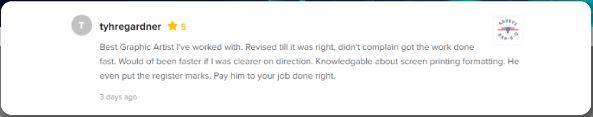
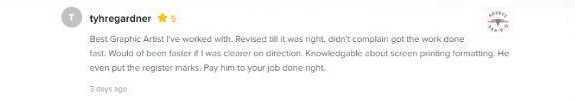
Seventh commit

diff --git a/quote.html b/quote.html
@@ -1,22 +1,22 @@
 <!doctype html>
 <html lang="en">
     <head>
-    <!-- Required meta tags -->
-    <meta charset="utf-8">
-    <meta name="viewport" content="width=device-width, initial-scale=1, shrink-to-fit=no">
+        <!-- Required meta tags -->
+        <meta charset="utf-8">
+        <meta name="viewport" content="width=device-width, initial-scale=1, shrink-to-fit=no">
 
-    <!--Animate CSS-->
-    <link rel="stylesheet" href="https://cdnjs.cloudflare.com/ajax/libs/animate.css/4.0.0/animate.min.css"/>
+        <!--Animate CSS-->
+        <link rel="stylesheet" href="https://cdnjs.cloudflare.com/ajax/libs/animate.css/4.0.0/animate.min.css"/>
 
-    <!-- Bootstrap CSS -->
-    <link rel="stylesheet" href="css/bootstrap.min.css">
+        <!-- Bootstrap CSS -->
+        <link rel="stylesheet" href="css/bootstrap.min.css">
 
-    <!-- App Style CSS -->
-    <link rel="stylesheet" href="sass/style.css">
+        <!-- App Style CSS -->
+        <link rel="stylesheet" href="sass/style.css">
 
-    <link rel="shortcut icon" href="img/favicon.jpg" type="image/x-icon">
-    <title>Designplus365</title>
-</head>
+        <link rel="shortcut icon" href="img/favicon.png" type="image/x-icon">
+        <title>Designplus365</title>
+    </head>
     <body data-spy="scroll" data-target="#mainNavbar">
     <header id="home">
         <nav class="navbar navbar-expand-lg fixed-top">
@@ -156,7 +156,7 @@
         <section id="contactPageSectionTwo" class="contact-page-section-two">
             <div class="container">
                 <h1 class="text-center mb-5">Connect Me On Social Media</h1>
-                <div class="d-flex justify-content-center social-medias">
+                <div class="d-flex flex-wrap justify-content-center social-medias">
                     <div class="text-center d-flex flex-column justify-content-center single-media wow animate__animated animate__fadeInUp" data-wow-delay="0.1s">
                         <a href="https://www.facebook.com/designplus365" target="_blank">
                             <i class="icofont-facebook"></i>

diff --git a/sass/style.scss b/sass/style.scss
@@ -166,14 +166,30 @@ header {
           &.quote {
             color: $white;
             background-color: #25a7e0;
+            border: 2px solid #25a7e0;
             border-radius: $default-button-radius;
+            transition: color .2s $transition-timing-function,
+            background-color .2s $transition-timing-function,
+            border-color .2s $transition-timing-function;
+            &:hover {
+              color: #25a7e0;
+              background-color: transparent;
+            }
           }
 
           &.quote-with-fiverr {
             color: $white;
             margin-left: 1.5rem;
             background-color: #87c540;
+            border: 2px solid #87c540;
             border-radius: $default-button-radius;
+            transition: color .2s $transition-timing-function,
+            background-color .2s $transition-timing-function,
+            border-color .2s $transition-timing-function;
+            &:hover {
+              color: #87c540;
+              background-color: transparent;
+            }
           }
 
           &.active {
@@ -286,16 +302,19 @@ Portfolio Style Start Here
             .carousel-item {
               img {
                 border-radius: 0.25rem;
-                border: 5px solid $white;
+                border: 7px solid $white;
               }
 
               .carousel-caption {
                 bottom: -50px;
                 text-align: left;
-                border-radius: 0.5rem;
+                border-radius: 1rem;
                 color: $secondary-color;
                 background-color: $white;
-                box-shadow: $default-box-shadow;
+                box-shadow: 5px 6px 10px 0px #797070;
+                img {
+                  border-radius: 1rem;
+                }
               }
             }
           }

diff --git a/sass/style.css b/sass/style.css
@@ -135,13 +135,25 @@ header .navbar .navbar-nav .nav-item .nav-link {
 header .navbar .navbar-nav .nav-item .nav-link.quote {
   color: #fff;
   background-color: #25a7e0;
+  border: 2px solid #25a7e0;
   border-radius: 20px;
+  transition: color 0.2s ease-in-out, background-color 0.2s ease-in-out, border-color 0.2s ease-in-out;
+}
+header .navbar .navbar-nav .nav-item .nav-link.quote:hover {
+  color: #25a7e0;
+  background-color: transparent;
 }
 header .navbar .navbar-nav .nav-item .nav-link.quote-with-fiverr {
   color: #fff;
   margin-left: 1.5rem;
   background-color: #87c540;
+  border: 2px solid #87c540;
   border-radius: 20px;
+  transition: color 0.2s ease-in-out, background-color 0.2s ease-in-out, border-color 0.2s ease-in-out;
+}
+header .navbar .navbar-nav .nav-item .nav-link.quote-with-fiverr:hover {
+  color: #87c540;
+  background-color: transparent;
 }
 header .navbar .navbar-nav .nav-item .nav-link.active span {
   color: #0071bc;
@@ -243,15 +255,18 @@ Portfolio Style Start Here
 }
 .portfolio .portfolio-modal .modal-dialog .modal-content .carousel .carousel-inner .carousel-item img {
   border-radius: 0.25rem;
-  border: 5px solid #fff;
+  border: 7px solid #fff;
 }
 .portfolio .portfolio-modal .modal-dialog .modal-content .carousel .carousel-inner .carousel-item .carousel-caption {
   bottom: -50px;
   text-align: left;
-  border-radius: 0.5rem;
+  border-radius: 1rem;
   color: #4b4b4b;
   background-color: #fff;
-  box-shadow: 0 20px 40px 0 rgba(18, 193, 162, 0.15);
+  box-shadow: 5px 6px 10px 0px #797070;
+}
+.portfolio .portfolio-modal .modal-dialog .modal-content .carousel .carousel-inner .carousel-item .carousel-caption img {
+  border-radius: 1rem;
 }
 .portfolio .portfolio-modal .modal-dialog .modal-content .carousel .carousel-control-prev {
   right: 100%;

diff --git a/index.html b/index.html
@@ -14,7 +14,7 @@
         <!-- App Style CSS -->
         <link rel="stylesheet" href="sass/style.css">
 
-        <link rel="shortcut icon" href="img/favicon.jpg" type="image/x-icon">
+        <link rel="shortcut icon" href="img/favicon.png" type="image/x-icon">
         <title>Designplus365</title>
     </head>
     <body data-spy="scroll" data-target="#mainNavbar">
@@ -183,11 +183,6 @@
                                     <div class="col-11 col-sm-8 col-md-6">
                                         <div id="carouselExampleCaptions" class="carousel slide carousel-fade"
                                              data-ride="carousel">
-                                            <ol class="carousel-indicators">
-                                                <li data-target="#carouselExampleCaptions" data-slide-to="0" class="active"></li>
-                                                <li data-target="#carouselExampleCaptions" data-slide-to="1"></li>
-                                                <li data-target="#carouselExampleCaptions" data-slide-to="2"></li>
-                                            </ol>
                                             <div class="carousel-inner">
                                                 <div class="carousel-item active">
                                                     <h4 class="secondary-text font-roboto font-weight-normal text-center">Slider item title goes here</h4>

diff --git a/about.html b/about.html
@@ -1,22 +1,22 @@
 <!doctype html>
 <html lang="en">
     <head>
-    <!-- Required meta tags -->
-    <meta charset="utf-8">
-    <meta name="viewport" content="width=device-width, initial-scale=1, shrink-to-fit=no">
+        <!-- Required meta tags -->
+        <meta charset="utf-8">
+        <meta name="viewport" content="width=device-width, initial-scale=1, shrink-to-fit=no">
 
-    <!--Animate CSS-->
-    <link rel="stylesheet" href="https://cdnjs.cloudflare.com/ajax/libs/animate.css/4.0.0/animate.min.css"/>
+        <!--Animate CSS-->
+        <link rel="stylesheet" href="https://cdnjs.cloudflare.com/ajax/libs/animate.css/4.0.0/animate.min.css"/>
 
-    <!-- Bootstrap CSS -->
-    <link rel="stylesheet" href="css/bootstrap.min.css">
+        <!-- Bootstrap CSS -->
+        <link rel="stylesheet" href="css/bootstrap.min.css">
 
-    <!-- App Style CSS -->
-    <link rel="stylesheet" href="sass/style.css">
+        <!-- App Style CSS -->
+        <link rel="stylesheet" href="sass/style.css">
 
-    <link rel="shortcut icon" href="img/favicon.jpg" type="image/x-icon">
-    <title>Designplus365</title>
-</head>
+        <link rel="shortcut icon" href="img/favicon.png" type="image/x-icon">
+        <title>Designplus365</title>
+    </head>
     <body data-spy="scroll" data-target="#mainNavbar">
         <header id="home">
         <nav class="navbar navbar-expand-lg fixed-top">
